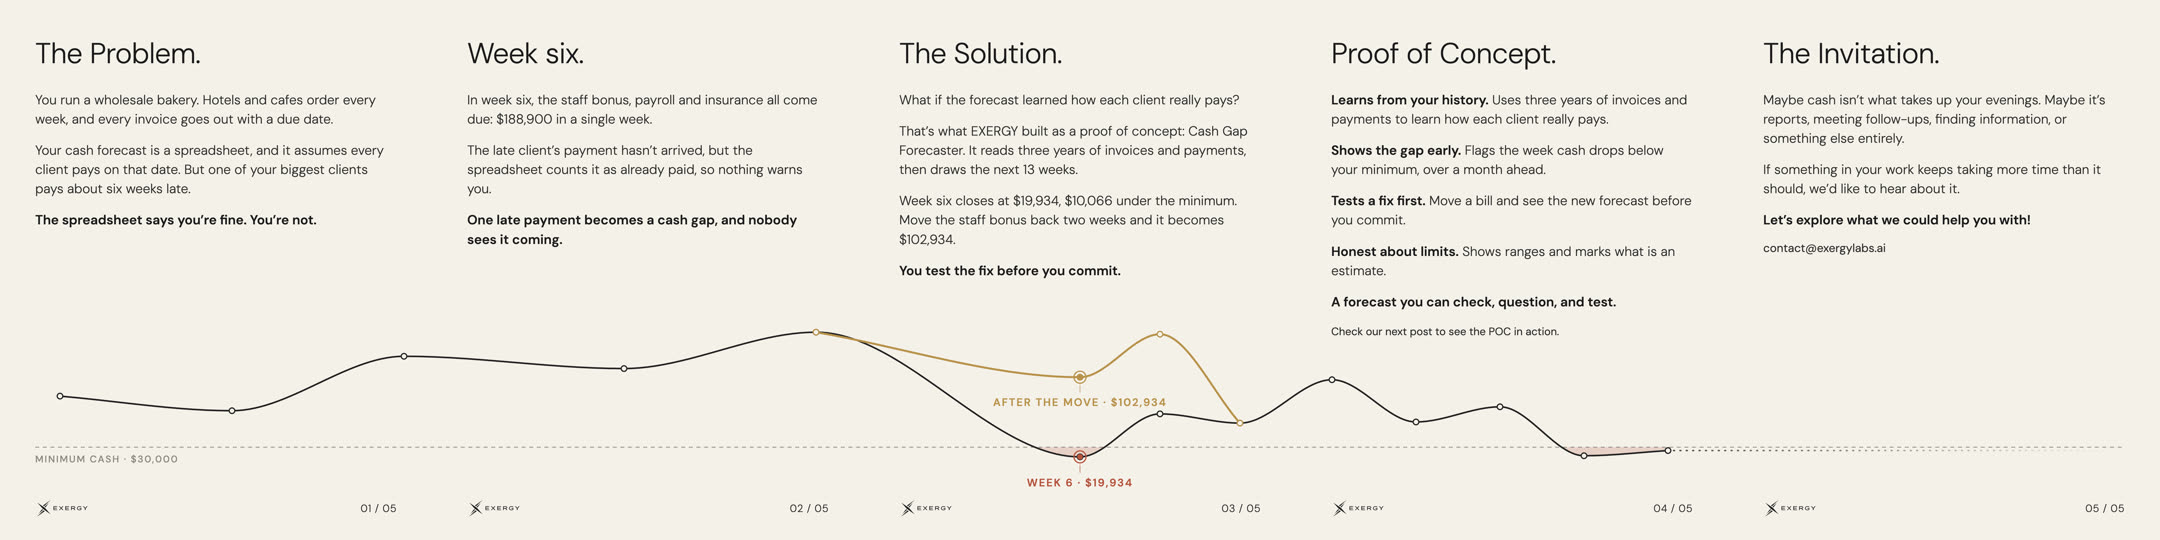
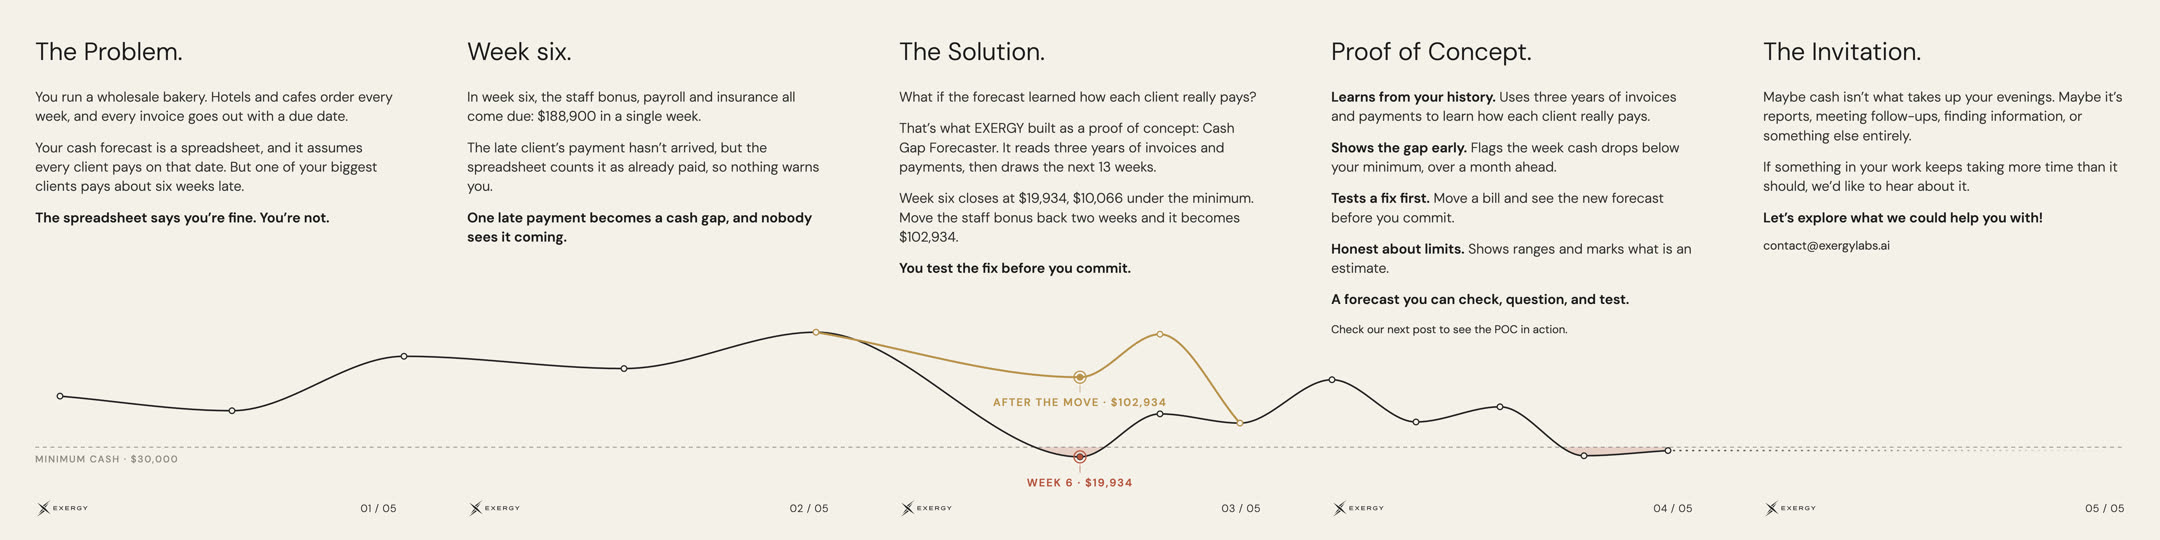
carousel-post: match EXERGY carousel typography (DM Sans 62/34.5, weight 330, line-height 1.4)

diff --git a/skills/carousel-post/scripts/template.html b/skills/carousel-post/scripts/template.html
@@ -12,12 +12,12 @@ html,body{background:var(--bg)}
 .pano{position:absolute;top:0;height:1350px}
 .pano svg{display:block;width:100%;height:100%}
 .content{position:absolute;left:88px;right:88px;top:96px}
-h1{font-weight:300;font-size:72px;line-height:1.05;letter-spacing:-.015em;margin-bottom:54px}
-p{font-weight:300;font-size:33px;line-height:1.46;color:var(--soft);margin-bottom:30px}
+h1{font-weight:330;font-size:62px;line-height:1.05;letter-spacing:0;margin-bottom:58px}   /* sizes/weights measured from EXERGY's own carousel (standard DM Sans, not the optical-size file) */
+p{font-weight:330;font-size:34.5px;line-height:1.4;color:var(--soft);margin-bottom:30px}
 p.b{font-weight:600;color:var(--ink)}
 p.item b{font-weight:600;color:var(--ink)}
-p.note{font-size:27px;font-weight:400;margin-top:8px}
-p.email{font-size:29px;font-weight:400;margin-top:-6px}
+p.note{font-size:28px;font-weight:400;margin-top:8px}
+p.email{font-size:30px;font-weight:400;margin-top:-6px}
 .foot{position:absolute;left:88px;right:88px;bottom:54px;display:flex;justify-content:space-between;align-items:center}
 .foot img{height:50px;display:block}
 .foot span{font-size:26px;font-weight:300;letter-spacing:.04em;color:var(--soft)}

diff --git a/skills/carousel-post/references/exergy-style.md b/skills/carousel-post/references/exergy-style.md
@@ -12,8 +12,13 @@ Taken from EXERGY's own proposal-drafting carousel (LinkedIn, Nov 2026, five sli
 ## Voice
 Plain, calm, second person, short sentences. No hype words, no emojis in slides. Bold is reserved for the closing line of each slide and the lead phrases on the proof slide. Titles end with a full stop.
 
-## Typography and layout (the template matches this)
-DM Sans: title light 72 px, body light 33 px at 1.46 line height, bold 600 for emphasis; cream background; text block in the top half, artwork in the bottom third; logo (dark) bottom-left, page counter bottom-right; 88 px side margins. Use true type weights only (the variable font has no italic: do not fake one; an earlier EXERGY slide used a different font for one line and looked like a late edit).
+## Typography and layout (the template matches this; measured from EXERGY's own carousel)
+Typeface: **standard DM Sans** (the `@fontsource-variable/dm-sans` wght file, NOT the optical-size `opsz` file: the opsz version sets tighter and wraps differently). Measured by typesetting the coworker's first paragraph and matching his line breaks exactly:
+- Title: **62 px** (on a 1080 px wide slide), weight ~330, line-height 1.05, normal letter-spacing.
+- Body: **34.5 px**, weight ~330, line-height **1.4**, colour dark charcoal (#2e2e2c); bold (600) only for the closing line and proof-slide lead phrases.
+- Cream background (#f4f1e9), text block starting 96 px from the top, 88 px side margins, logo (dark) bottom-left, "01 / 05" bottom-right.
+- Use true weights only (the variable font has no italic: do not fake one; an earlier EXERGY slide used a different font for one line and looked like a late edit).
+- If you must re-measure: crop the original slide, typeset the same sentence at candidate sizes in a 1080 px page, and compare where the lines break.
 
 ## Framing rules
 - "We built this for a client" is a claim. Use it only when true. For an invented example business use "Picture a..." and "an EXERGY proof of concept".
